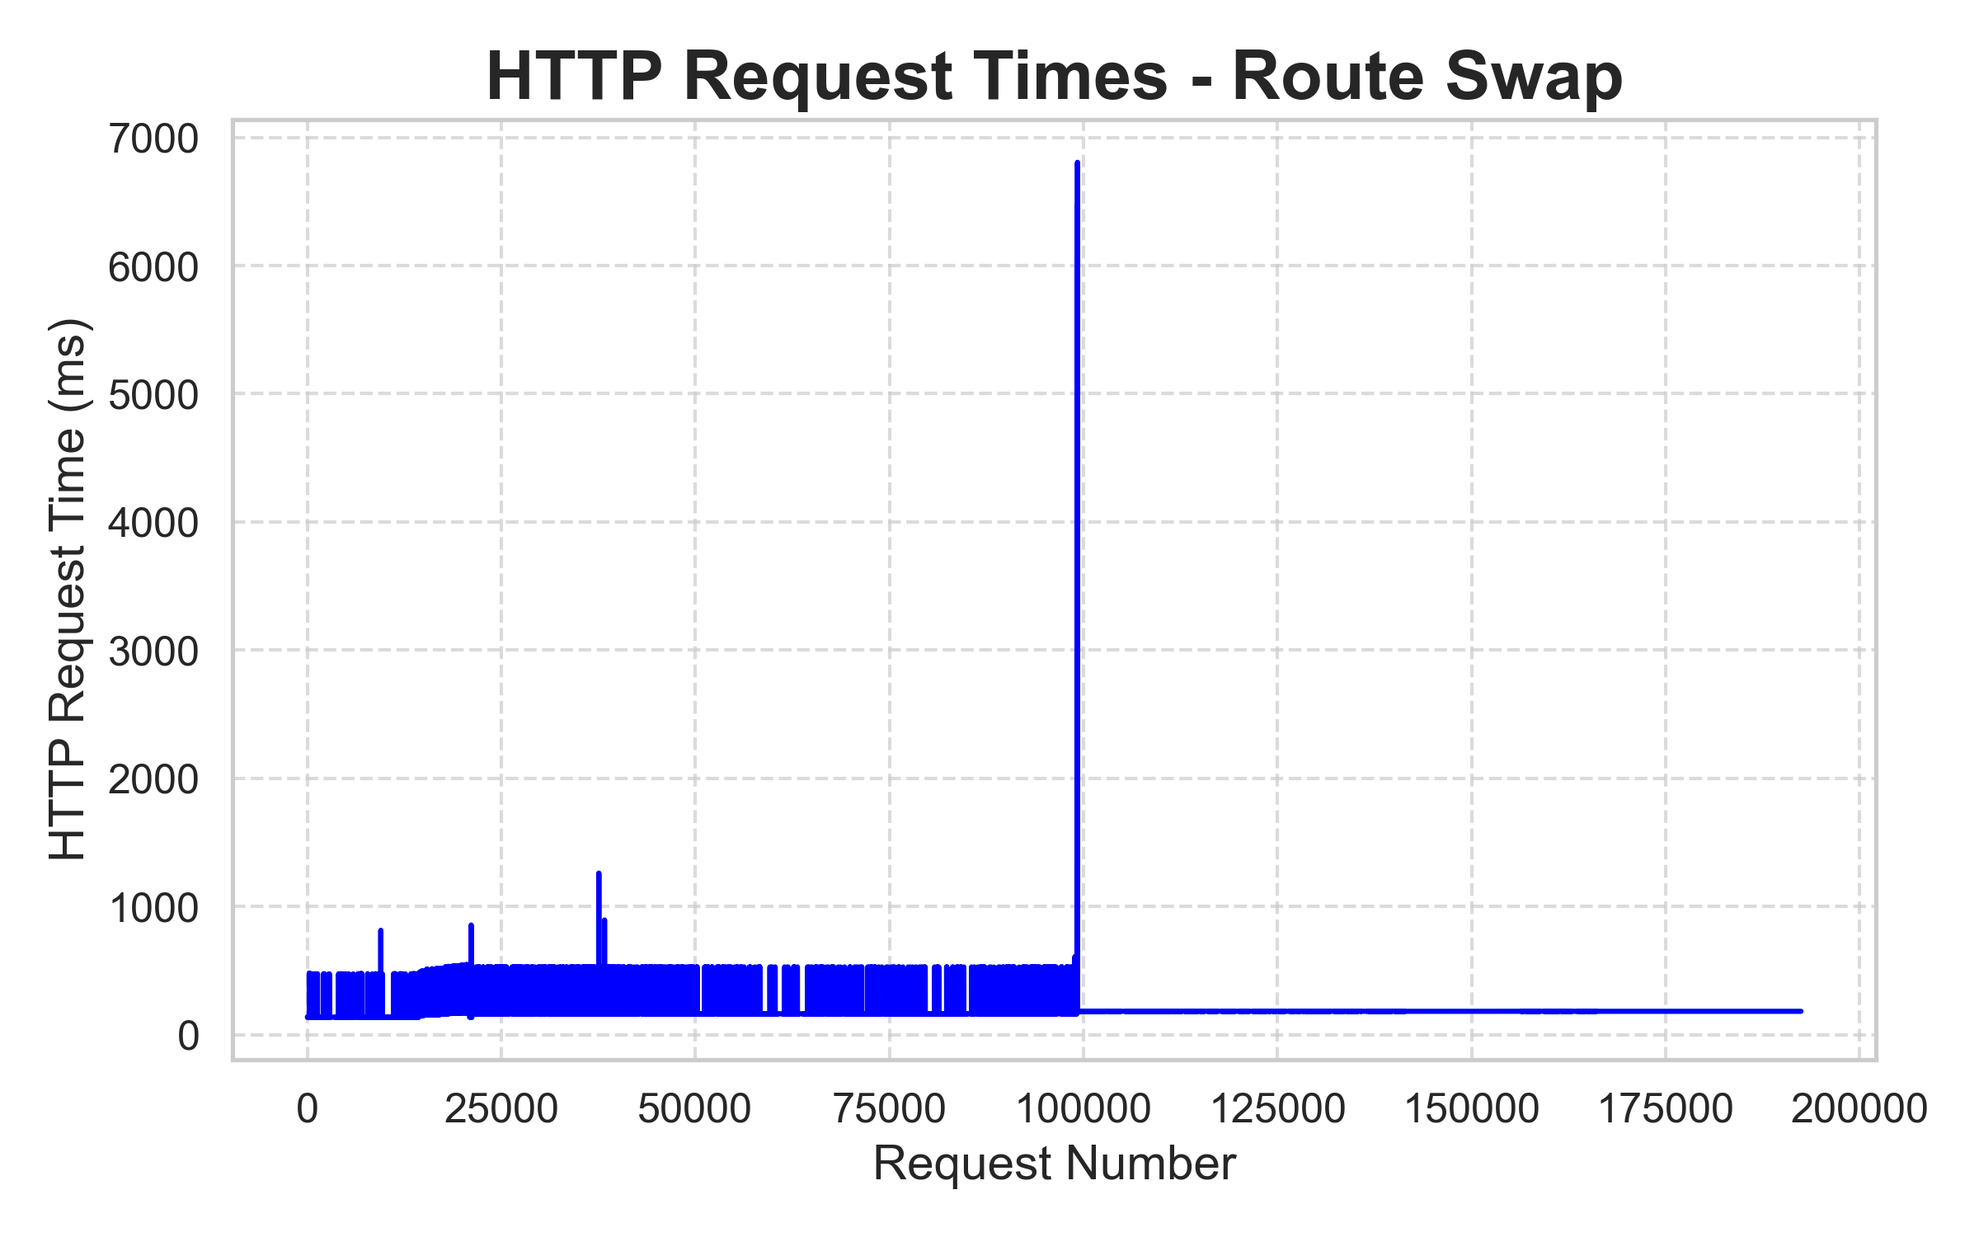
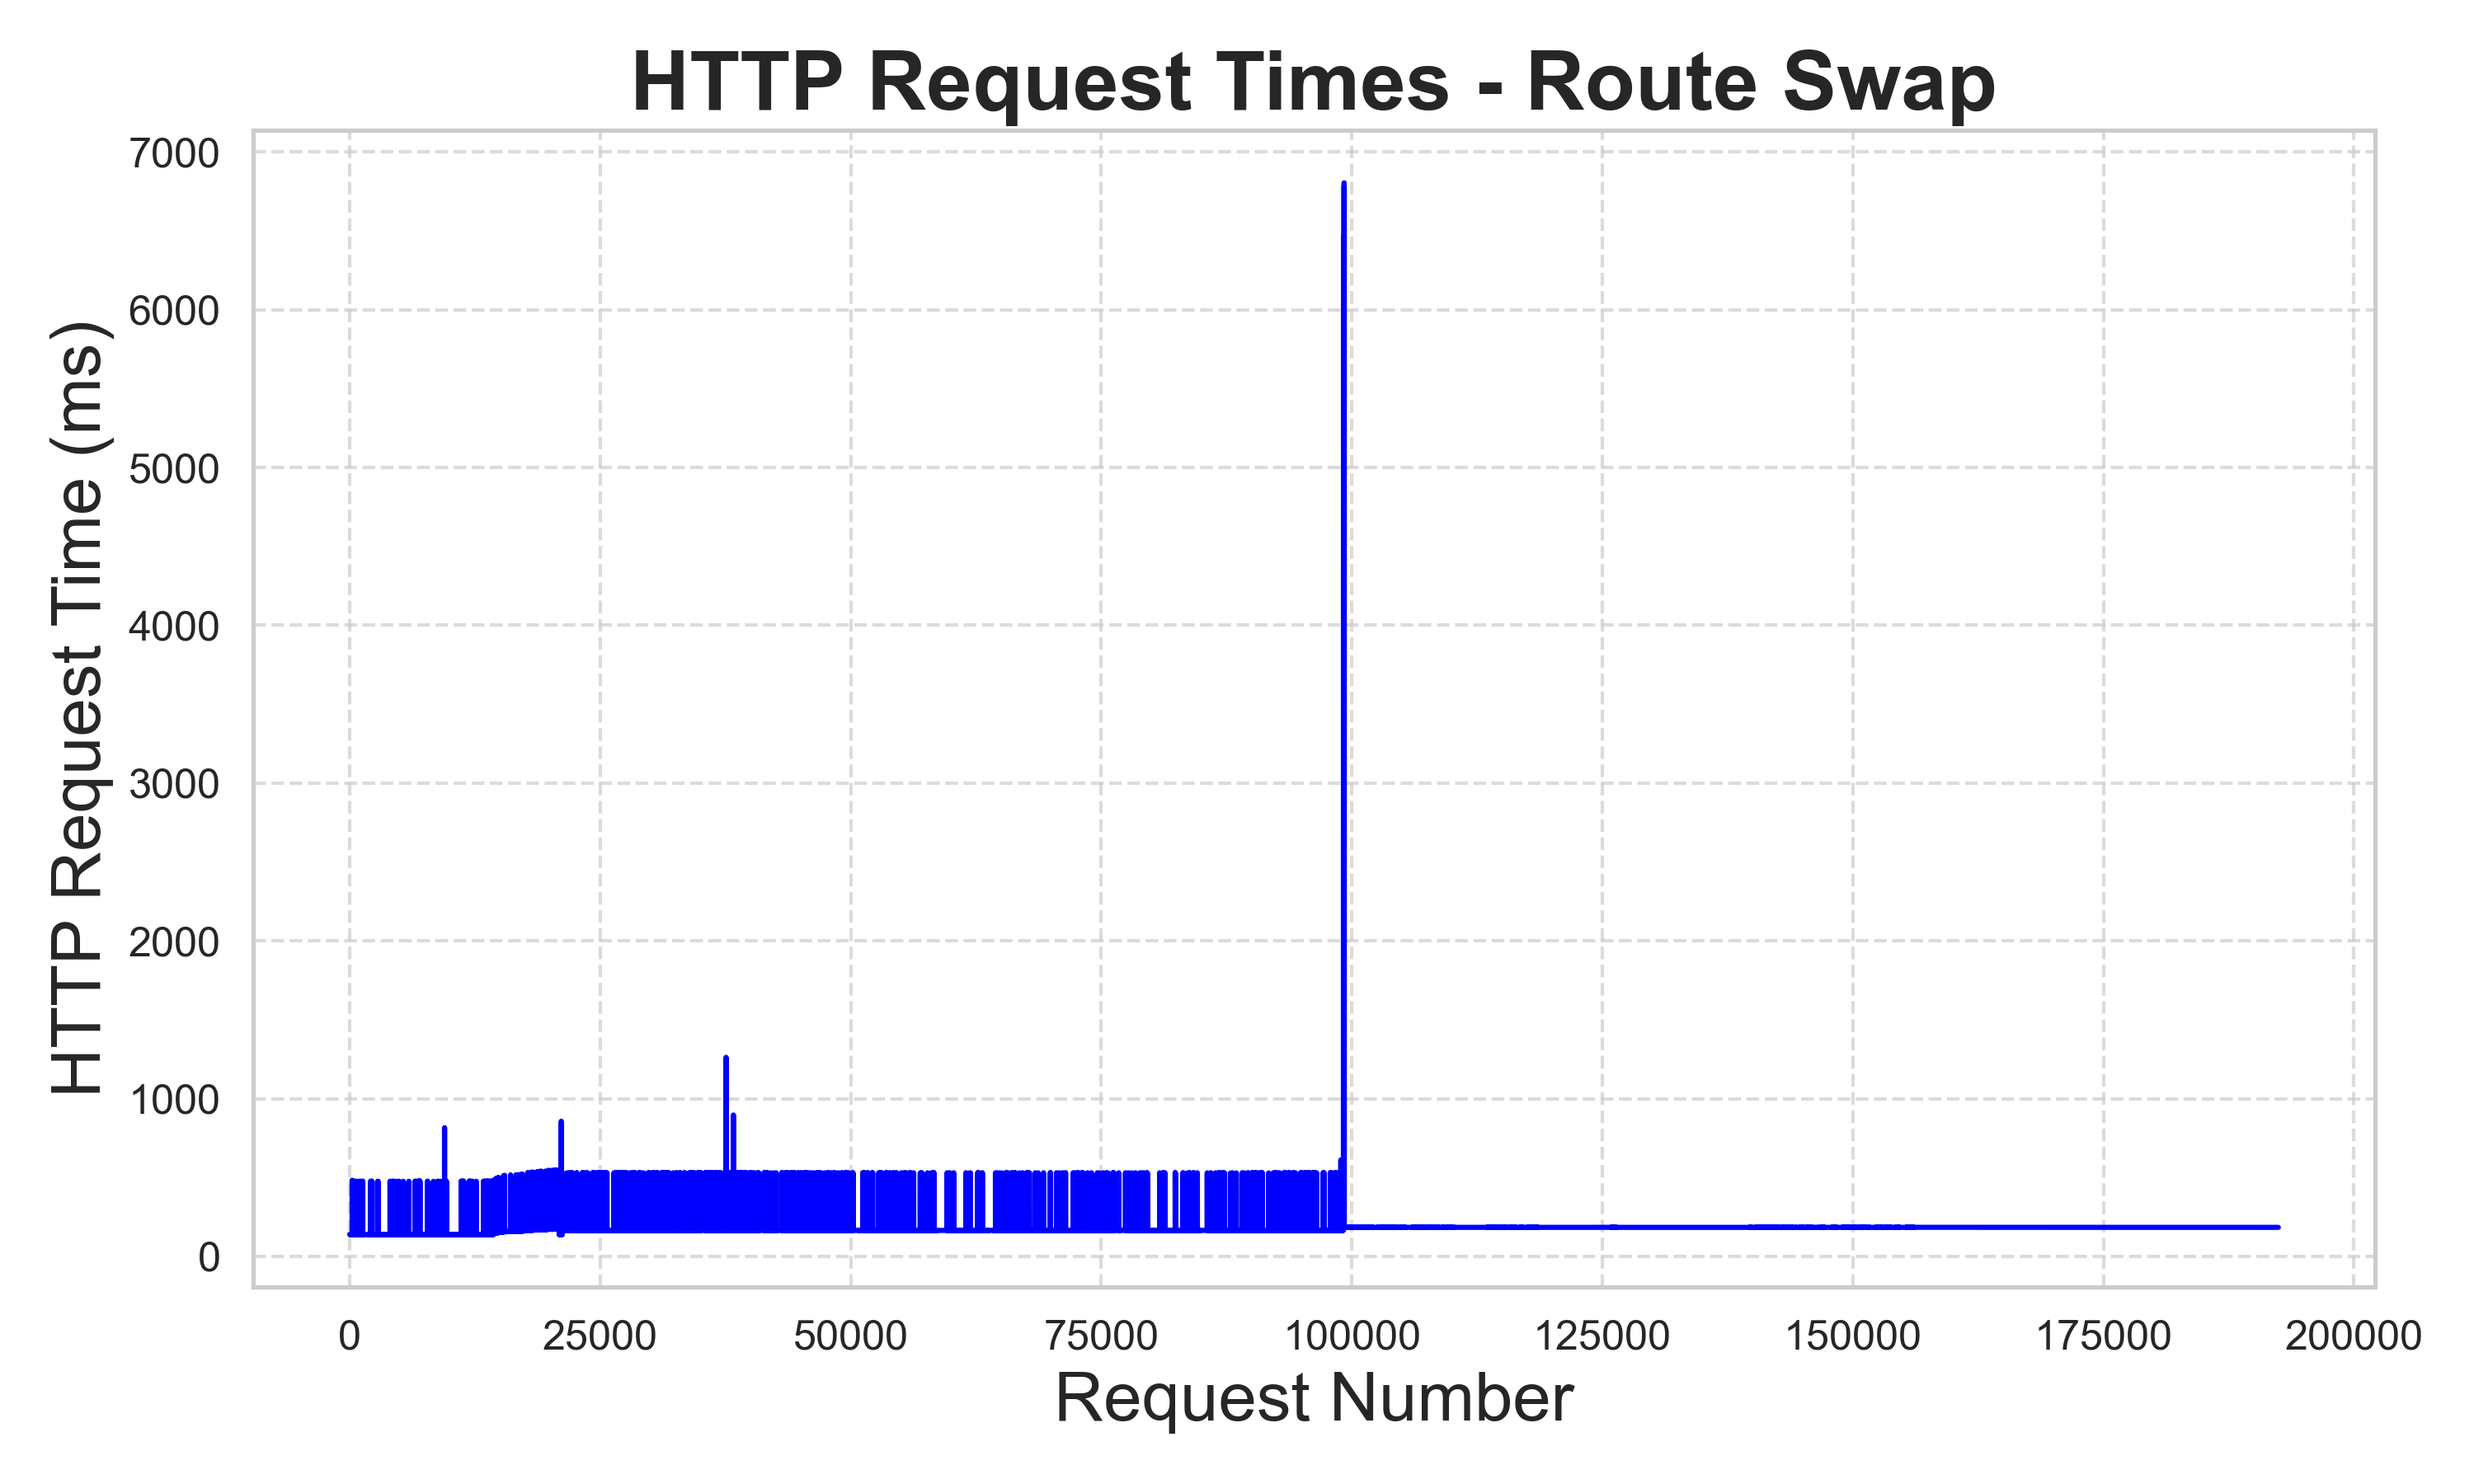
fixed paths and graph readability

diff --git a/scripts/24h-plot-histogram.py b/scripts/24h-plot-histogram.py
@@ -9,12 +9,12 @@ from matplotlib.patches import Patch
 
 # File paths
 SET_FILES = {
-    "IP: 17 Hops": "data/24h/24h-ip.csv",
-    "PolKA 1: VIT-RIO-SAO-MIA": "data/24h/24h-rj.csv",
-    "PolKA 2: VIT-BHZ-SAO-MIA": "data/24h/24h-bh.csv",
-    "PolKA 3: VIT-BHZ-RIO-SAO-MIA": "data/24h/24h-bh-rj.csv",
+    "IP: 17 Hops": "./csv-data/24h-ip.csv",
+    "PolKA 1: VIT-RIO-SAO-MIA": "./csv-data/24h-polka-1.csv",
+    "PolKA 2: VIT-BHZ-SAO-MIA": "./csv-data/24h-polka-2.csv",
+    "PolKA 3: VIT-BHZ-RIO-SAO-MIA": "./csv-data/24h-polka-3.csv",
 }
-OUTPUT_FILE = "result-plots/phase1/histogram-24h.png"
+OUTPUT_FILE = "result-plots/24h-histogram.png"
 
 # Ensure output directory exists
 os.makedirs(os.path.dirname(OUTPUT_FILE), exist_ok=True)
@@ -53,11 +53,11 @@ bin_count = freedman_diaconis_bins(df["Time"])
 sns.set(style="whitegrid")
 # Increase overall font sizes for tick labels, axes labels and titles
 # font_scale scales Seaborn's font sizes (works well with matplotlib)
-sns.set_context("notebook", font_scale=1.3)
+sns.set_context("notebook")
 fig, axes = plt.subplots(2, 2, figsize=(15, 10))
 
 # Add main title
-fig.suptitle("HTTP Response Time Density Curve per Path", fontsize=20, fontweight='bold')
+fig.suptitle("HTTP Response Time Density Curve per Path", fontsize=24, fontweight='bold')
 
 # Define the subplot positions for each dataset
 # Top row: PolKA 1, PolKA 2
@@ -75,6 +75,13 @@ for idx, (set_name, pos) in enumerate(zip(subplot_order, positions)):
     
     # Filter data for this specific dataset
     subset_data = df[df["Path"] == set_name]
+    # Remove non-positive values antes de usar escala log
+    subset_data = subset_data[subset_data["Time"] > 0]
+    if subset_data.empty:
+        ax.set_title(set_name + " (no positive values)", fontsize=20, fontweight='bold')
+        ax.set_xlabel("" if row == 0 else "Response Time (ms)")
+        ax.set_ylabel("" if col != 0 else "Probability Density")
+        continue
     
     # Create histogram for this subset
     sns.histplot(
@@ -90,34 +97,36 @@ for idx, (set_name, pos) in enumerate(zip(subplot_order, positions)):
     )
     
     # Set title to just the path name
-    ax.set_title(set_name, fontsize=14, fontweight='bold')
+    ax.set_title(set_name, fontsize=20, fontweight='bold')
     
     # Only add x-axis label for bottom row
     if row == 1:
-        ax.set_xlabel("Response Time (ms)", fontsize=14)
+        ax.set_xlabel("Response Time (ms)", fontsize=20)
     else:
         ax.set_xlabel("")
     
     # Only add y-axis label for left column
     if col == 0:
-        ax.set_ylabel("Probability Density", fontsize=14)
+        ax.set_ylabel("Probability Density", fontsize=20)
     else:
         ax.set_ylabel("")
     
     ax.set_yscale('log')
     ax.set_xscale('log')
 
-    # Make major tick labels bigger (minor ticks typically don't have labels)
-    ax.tick_params(axis='both', which='major', labelsize=14)
+    # Make major tick labels bigger and consistent across all subplots
+    ax.tick_params(axis='x', which='major', labelsize=16)
+    ax.tick_params(axis='y', which='major', labelsize=16)
 
-    # X-axis minor ticks (kept smaller but visible)
-    ax.tick_params(axis='x', which='minor', length=4, color='gray')
-    
+    # Minor ticks (kept smaller but visible) - keep a consistent labelsize if shown
+    ax.tick_params(axis='x', which='minor', length=4, color='gray', labelsize=16)
+    ax.tick_params(axis='y', which='minor', length=4, color='gray', labelsize=16)
+     
     # Optional: enable minor grid for better readability
     ax.grid(True, which='minor', linestyle=':', linewidth=0.5)
     ax.minorticks_on()
 
-plt.tight_layout(rect=[0, 0.03, 1, 0.97])
+plt.tight_layout(rect=(0, 0.03, 1, 0.97))
 # Save plot
 plt.savefig(OUTPUT_FILE, dpi=300)
 plt.close()

diff --git a/scripts/24h-extract-result-metrics.py b/scripts/24h-extract-result-metrics.py
@@ -29,12 +29,12 @@ def calculate_statistics(data: List[float]) -> Dict[str, float]:
     
     return {
         'count': len(data),
-        'min': np.min(data_array),
-        'max': np.max(data_array),
-        'mean': np.mean(data_array),
-        'median': np.median(data_array),
-        'p90': np.percentile(data_array, 90),
-        'p95': np.percentile(data_array, 95)
+        'min': float(np.min(data_array)),
+        'max': float(np.max(data_array)),
+        'mean': float(np.mean(data_array)),
+        'median': float(np.median(data_array)),
+        'p90': float(np.percentile(data_array, 90)),
+        'p95': float(np.percentile(data_array, 95))
     }
 
 def read_csv_file(file_path: str) -> Tuple[List[float], str]:
@@ -138,26 +138,21 @@ def main():
     args = parser.parse_args()
     
     # Define preset file sets
-    base_path = os.path.dirname(os.path.abspath(__file__))
+    script_dir = os.path.dirname(os.path.abspath(__file__))
+    base_path = os.path.abspath(os.path.join(script_dir, '..'))  # go one folder up (repo root)
     
     presets = {
         '24h': [
-            os.path.join(base_path, 'data', '24h', '24h-bh-rj.csv'),
-            os.path.join(base_path, 'data', '24h', '24h-bh.csv'),
-            os.path.join(base_path, 'data', '24h', '24h-ip.csv'),
-            os.path.join(base_path, 'data', '24h', '24h-rj.csv')
-        ],
-        'phase0': [
-            os.path.join(base_path, 'data', 'phase0', 'times_raw_ip.csv'),
-            os.path.join(base_path, 'data', 'phase0', 'times_raw_polka.csv'),
-            os.path.join(base_path, 'data', 'phase0', 'times_treated_ip.csv'),
-            os.path.join(base_path, 'data', 'phase0', 'times_treated_polka.csv')
+            os.path.join(base_path, 'csv-data', '24h-polka-3.csv'),
+            os.path.join(base_path, 'csv-data', '24h-polka-2.csv'),
+            os.path.join(base_path, 'csv-data', '24h-ip.csv'),
+            os.path.join(base_path, 'csv-data', '24h-polka-1.csv')
         ],
         'stress': [
-            os.path.join(base_path, 'data', 'stress', 'stress-ip.csv'),
-            os.path.join(base_path, 'data', 'stress', 'stress-polka1.csv'),
-            os.path.join(base_path, 'data', 'stress', 'stress-polka2.csv'),
-            os.path.join(base_path, 'data', 'stress', 'stress-polka3.csv')
+            os.path.join(base_path, 'csv-data', 'stress-ip.csv'),
+            os.path.join(base_path, 'csv-data', 'stress-polka-1.csv'),
+            os.path.join(base_path, 'csv-data', 'stress-polka-2.csv'),
+            os.path.join(base_path, 'csv-data', 'stress-polka-3.csv')
         ]
     }
     

diff --git a/scripts/24h-plot-http-times.py b/scripts/24h-plot-http-times.py
@@ -7,12 +7,12 @@ from datetime import datetime, timedelta
 
 # File paths
 SET_FILES = {
-    "PolKA 1: VIT-RIO-SAO-MIA": "data/24h/24h-rj.csv",
-    "PolKA 2: VIT-BHZ-SAO-MIA": "data/24h/24h-bh.csv",
-    "PolKA 3: VIT-BHZ-RIO-SAO-MIA": "data/24h/24h-bh-rj.csv",
-    "IP: 17 Hops": "data/24h/24h-ip.csv",
+    "PolKA 1: VIT-RIO-SAO-MIA": "csv-data/24h-polka-1.csv",
+    "PolKA 2: VIT-BHZ-SAO-MIA": "csv-data/24h-polka-2.csv",
+    "PolKA 3: VIT-BHZ-RIO-SAO-MIA": "csv-data/24h-polka-3.csv",
+    "IP: 17 Hops": "csv-data/24h-ip.csv",
 }
-OUTPUT_FILE_REQ = "result-plots/phase1/http-times-over-time-24h.png"
+OUTPUT_FILE_REQ = "result-plots/24h-http-times.png"
 
 # Ensure output directory exists
 os.makedirs(os.path.dirname(OUTPUT_FILE_REQ), exist_ok=True)
@@ -82,28 +82,28 @@ for i, (label, filepath) in enumerate(SET_FILES.items()):
     
     ax = axes[i]
     ax.plot(hours_of_day, sorted_http_times, color=color_dict[label], alpha=0.7, linewidth=0.8)
-    ax.set_title(label, fontsize=14, fontweight='bold')
+    ax.set_title(label, fontsize=20, fontweight='bold')
     
     if i >= 2:  # Bottom row
-        ax.set_xlabel("Time (HH:MM)", fontsize=14)
+        ax.set_xlabel("Time (HH:MM)", fontsize=20)
     else:
         ax.set_xlabel("")  # Clear label
-    ax.set_ylabel("Response Time (ms)" if i % 2 == 0 else "", fontsize=14)
+    ax.set_ylabel("Response Time (ms)" if i % 2 == 0 else "", fontsize=20)
     ax.grid(True, linestyle=":", linewidth=0.5, alpha=0.7)
     ax.set_yticks(range(0, 1300, 200))
-    ax.set_yticklabels([f"{int(y)}" for y in ax.get_yticks()], fontsize=14)
+    ax.set_yticklabels([f"{int(y)}" for y in ax.get_yticks()], fontsize=18)
     ax.set_ylim(0, 1200)  # Set y-limit
     ax.set_xlim(0, 24)  # 24-hour period
     # Set x-axis ticks every 4 hours
     ax.set_xticks(range(0, 25, 4))
-    ax.set_xticklabels([f"{h:02d}:00" for h in range(0, 25, 4)], fontsize=14)
+    ax.set_xticklabels([f"{h:02d}:00" for h in range(0, 25, 4)], fontsize=18)
 
 # Remove unused axes if any
 for j in range(len(SET_FILES), len(axes)):
     fig.delaxes(axes[j])
 
-plt.suptitle("HTTP Response Time Over 24-Hour Period", fontsize=20, fontweight='bold')
-plt.tight_layout(rect=[0, 0.03, 1, 0.97])  # Adjust rect to make room for suptitle
+plt.suptitle("HTTP Response Time Over 24-Hour Period", fontsize=24, fontweight='bold')
+plt.tight_layout(rect=(0, 0.03, 1, 0.97))  # Adjust rect to make room for suptitle
 plt.savefig(OUTPUT_FILE_REQ, dpi=300)
 plt.close()
 

diff --git a/scripts/stress-plot.py b/scripts/stress-plot.py
@@ -12,10 +12,10 @@ sns.set_context("notebook", font_scale=1.35)
 colors = sns.color_palette("tab10")  # This gives: blue, orange, green, red, etc.
 
 # Carregar os dados dos testes de stress
-df_stress_ip = pd.read_csv('data/stress/stress-ip.csv')
-df_stress_polka1 = pd.read_csv('data/stress/stress-polka1.csv')
-df_stress_polka2 = pd.read_csv('data/stress/stress-polka2.csv')
-df_stress_polka3 = pd.read_csv('data/stress/stress-polka3.csv')
+df_stress_ip = pd.read_csv('csv-data/stress-ip.csv')
+df_stress_polka1 = pd.read_csv('csv-data/stress-polka-1.csv')
+df_stress_polka2 = pd.read_csv('csv-data/stress-polka-2.csv')
+df_stress_polka3 = pd.read_csv('csv-data/stress-polka-3.csv')
 
 # Filtrar dados para apenas até 20 minutos (1200 segundos)
 df_stress_ip = df_stress_ip[df_stress_ip['time'] <= 1200]
@@ -33,9 +33,9 @@ plt.plot(df_stress_polka3['time']/60, df_stress_polka3['avg'], label='PolKA 3: V
 
 
 # Adicionar rótulos e título
-plt.xlabel('Time (minutes)', fontsize=14)
-plt.ylabel('Average Throughput (Gb/s)', fontsize=14)
-plt.title('Average Throughput Comparison: IP vs PolKA 1, 2, 3', fontsize=20, fontweight='bold')
+plt.xlabel('Time (minutes)', fontsize=20)
+plt.ylabel('Average Throughput (Gb/s)', fontsize=20)
+plt.title('Average Throughput Comparison: IP vs PolKA 1, 2, 3', fontsize=24, fontweight='bold')
 
 plt.xticks(range(0, 21, 2))  # De 0 a 20 minutos, a cada 2 minutos
 
@@ -80,7 +80,7 @@ ax.tick_params(axis='both', which='major', labelsize=14, length=8, width=1.6, di
 ax.tick_params(axis='both', which='minor', labelsize=12, length=6, width=1.2, color='gray', direction='in')
 
 # Increase legend font size for consistency
-plt.legend(fontsize=12, loc='lower right')
+plt.legend(fontsize=18, loc='lower right')
 plt.grid(True, alpha=0.3)
 plt.tight_layout()
-plt.savefig('result-plots/phase1/stress.png', dpi=300, bbox_inches='tight')  # Save the figure
+plt.savefig('result-plots/stress.png', dpi=300, bbox_inches='tight')  # Save the figure

diff --git a/scripts/html-time-parser.py b/scripts/html-time-parser.py
@@ -1,9 +1,38 @@
 import subprocess
 import csv
+import os
+import glob
+
+
+script_dir = os.path.dirname(os.path.abspath(__file__))
+
+search_dirs = [
+    os.path.join(script_dir, 'packet-captures'),
+    os.path.join(script_dir, '..', 'packet-captures'),
+    os.path.join(script_dir, '..', '..', 'packet-captures'),
+]
+
+found_files = []
+for d in search_dirs:
+    if os.path.isdir(d):
+        for pattern in ('*.pcap', '*.pcapng', '*.cap', '*.pcap.gz'):
+            found_files.extend(glob.glob(os.path.join(d, pattern)))
+
+# If none found in the common locations, search recursively from script_dir
+if not found_files:
+    for pattern in ('*.pcap', '*.pcapng', '*.cap', '*.pcap.gz'):
+        found_files.extend(glob.glob(os.path.join(script_dir, '**', pattern), recursive=True))
+
+if not found_files:
+    raise SystemExit("No packet capture file found in any 'packet-captures' directory under the script path.")
+
+# pick the most recently modified capture file
+capture_file = max(found_files, key=os.path.getmtime)
+print(f"Using capture file: {capture_file}")
 
 tshark_cmd = [
     "tshark",
-    "-r", "C:/Users/joaop/Desktop/NERDS/VIX-MIA-Proj/captures/phase1/captures/24h-bh-rj.pcap",
+    "-r", capture_file,
     "-Y", "http.time",
     "-T", "fields",
     "-e", "frame.time_utc",
@@ -28,4 +57,4 @@ with open('data/24h/24h-bh-rj.csv', 'w', newline='') as csvfile:
                 csv_writer.writerow([idx + 1, fields[0], ''])
 
 
-    
+

diff --git a/scripts/route-swap-plot.py b/scripts/route-swap-plot.py
@@ -5,10 +5,10 @@ import numpy as np
 import os
 
 # === FILE PATHS ===
-CSV = 'data/phase1/route-swap.csv'
+CSV = 'csv-data/route-swap.csv'
 
 # Ensure output directory exists
-os.makedirs('result-plots/phase1', exist_ok=True)
+os.makedirs('result-plots', exist_ok=True)
 
 # === READ CSV FILES ===
 def read_times_from_csv(filepath):
@@ -34,15 +34,15 @@ sns.set(style="whitegrid", palette="Set2", font_scale=1.1)
 
 # Plot each scenario in a separate image
 scenarios = [
-    ('Route Swap', times, 'blue', 'result-plots/phase1/route-swap.png'),
+    ('Route Swap', times, 'blue', 'result-plots/route-swap.png'),
 ]
 
 for label, times, color, filename in scenarios:
-    plt.figure(figsize=(8, 5))
+    plt.figure(figsize=(10, 6))
     sns.lineplot(x=x, y=times, color=color, linewidth=1.5)
-    plt.title(f'HTTP Request Times - {label}', fontsize=20, fontweight='bold')
-    plt.xlabel('Request Number', fontsize=14)
-    plt.ylabel('HTTP Request Time (ms)', fontsize=14)
+    plt.title(f'HTTP Request Times - {label}', fontsize=24, fontweight='bold')
+    plt.xlabel('Request Number', fontsize=20)
+    plt.ylabel('HTTP Request Time (ms)', fontsize=20)
     plt.grid(True, linestyle='--', alpha=0.7)
     plt.tight_layout()
     plt.savefig(filename, dpi=300)
